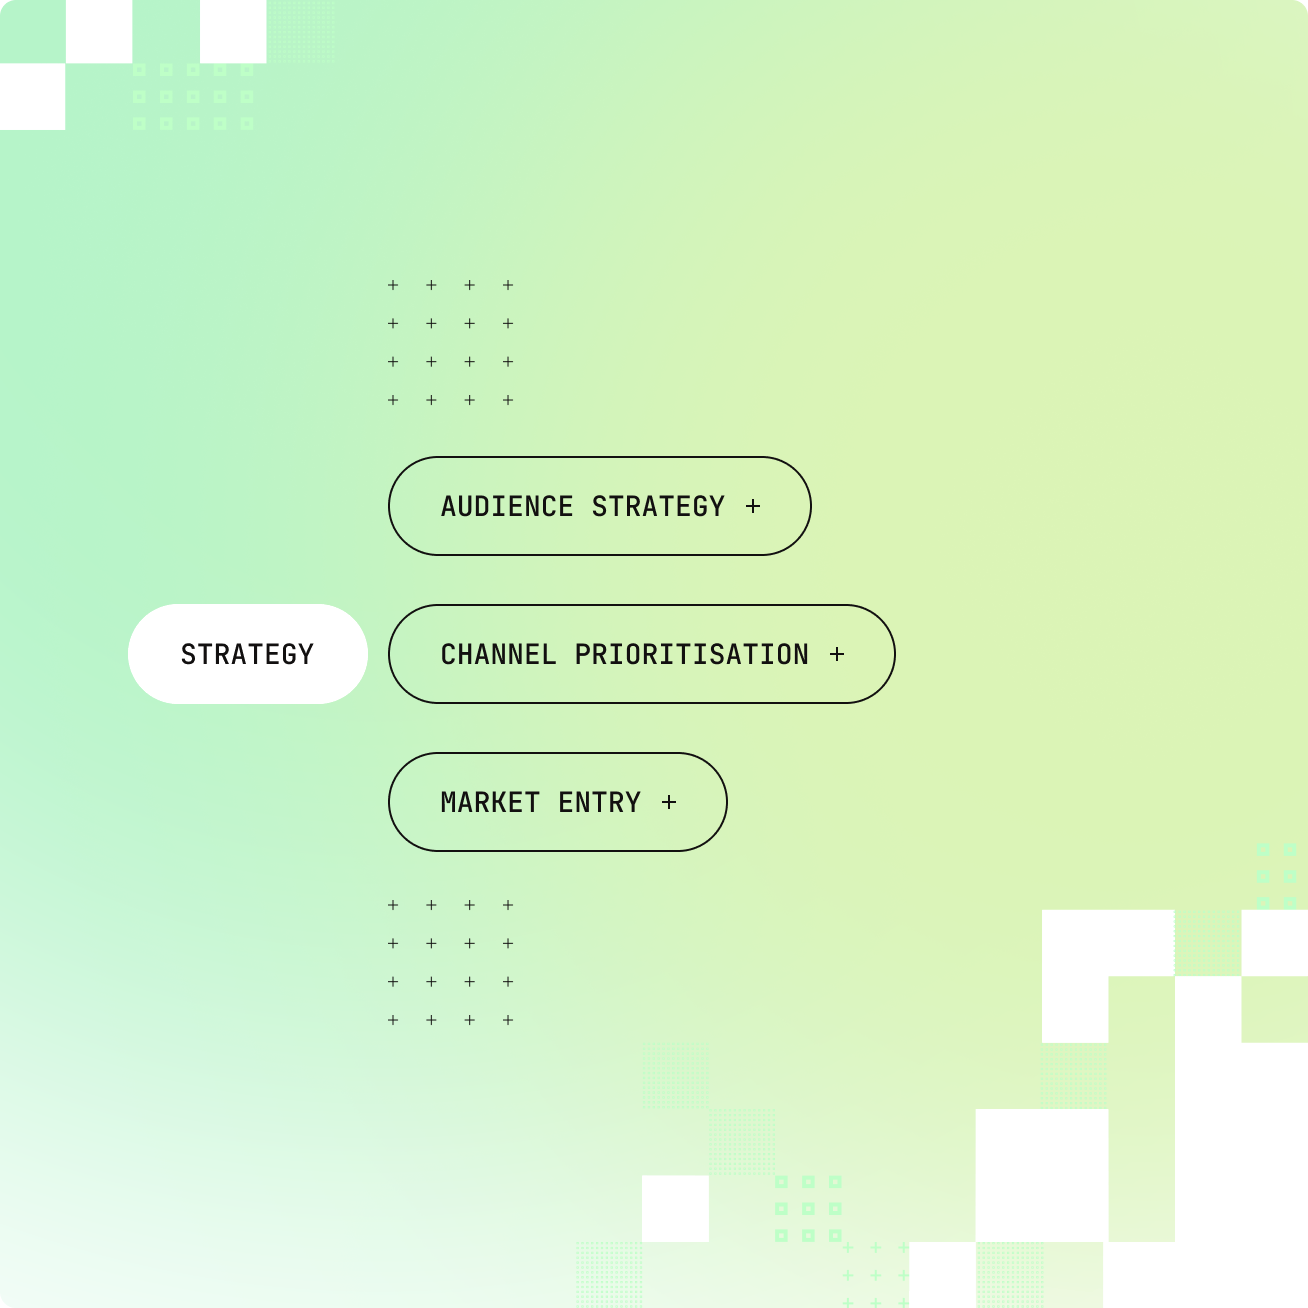
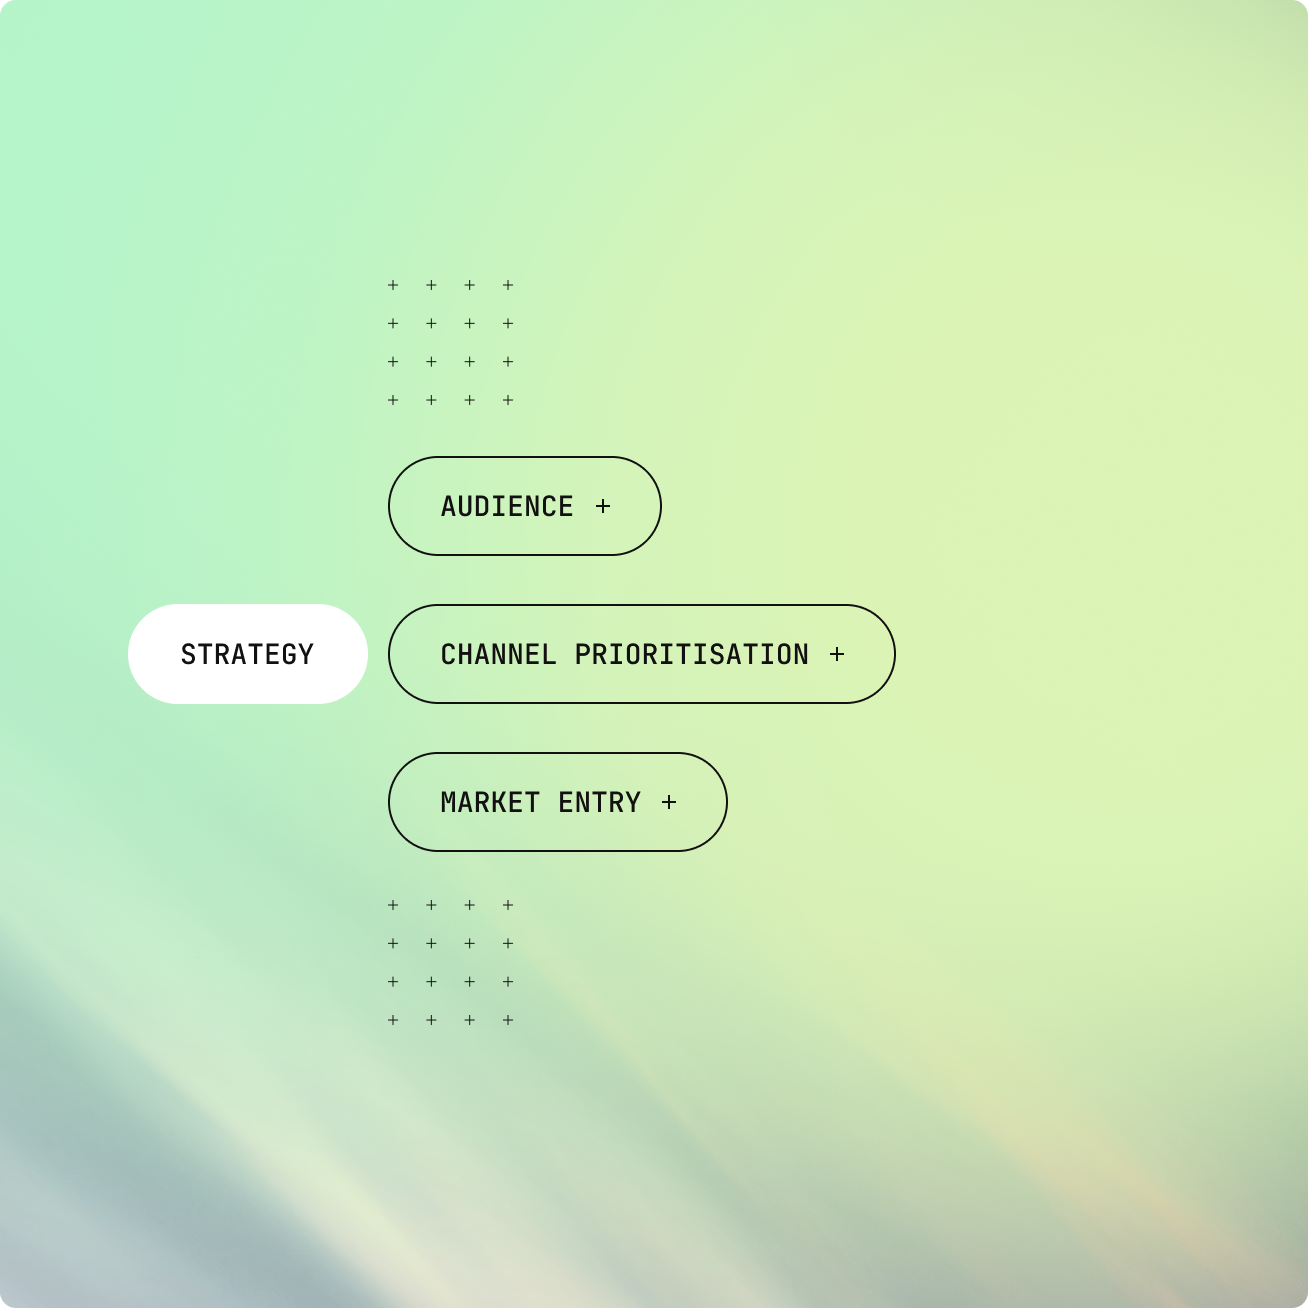
Update accordion media: needswork_light for Systematic/Commercial, transparent container, refreshed strategy image

diff --git a/dijitally-revised.html b/dijitally-revised.html
@@ -2624,8 +2624,8 @@ function MenuGlitch({ onComplete, onMidpoint }) {
 const ACCORDION_MEDIA = [
   { type:'image', src:'services/strategy.png' }, // 0 Strategic
   { type:'video', src:'videos/Inhouse+Embedded.mp4' }, // 1 Organisation
-  { type:'placeholder' },       // 2 Systematic
-  { type:'placeholder' },       // 3 Commercial
+  { type:'image', src:'services/needswork_light.png' }, // 2 Systematic
+  { type:'image', src:'services/needswork_light.png' }, // 3 Commercial
   { type:'image', src:'work/Constantinople.png' },      // 4 Technologic
   { type:'image', src:'work/AWX.png' },                 // 5 Tactic
 ];
@@ -2696,7 +2696,7 @@ function AccordionMediaPanel({ activeIdx, dark }) {
   const mediaStyle = { position:'absolute', inset:0, width:'100%', height:'100%', objectFit:'cover', display:'block' };
 
   return (
-    <div style={{ position:'relative', width:'100%', height:'100%', borderRadius:4, overflow:'hidden', background:'#1a1a1a' }}>
+    <div style={{ position:'relative', width:'100%', height:'100%', borderRadius:4, overflow:'hidden', background:'transparent' }}>
       {media.type === 'placeholder'
         ? <div key="placeholder" style={{ position:'absolute', inset:0, background:'#808080', display:'flex', alignItems:'center', justifyContent:'center' }}>
             <span style={{ fontFamily:'var(--sans)', fontSize:14, fontWeight:400, color:'#fff', letterSpacing:'0.02em' }}>Needs guidance for type of work</span>

diff --git a/dijitally-services.html b/dijitally-services.html
@@ -179,7 +179,7 @@
   </style>
 </head>
 <body>
-<div style="position:fixed;bottom:12px;left:12px;z-index:9999;font-family:monospace;font-size:11px;color:red;pointer-events:none;">build c6cc964</div>
+<div style="position:fixed;bottom:12px;left:12px;z-index:9999;font-family:monospace;font-size:11px;color:red;pointer-events:none;">build f073ef3</div>
 <svg style="position:absolute;width:0;height:0;overflow:hidden" aria-hidden="true">
   <defs>
     <!--
